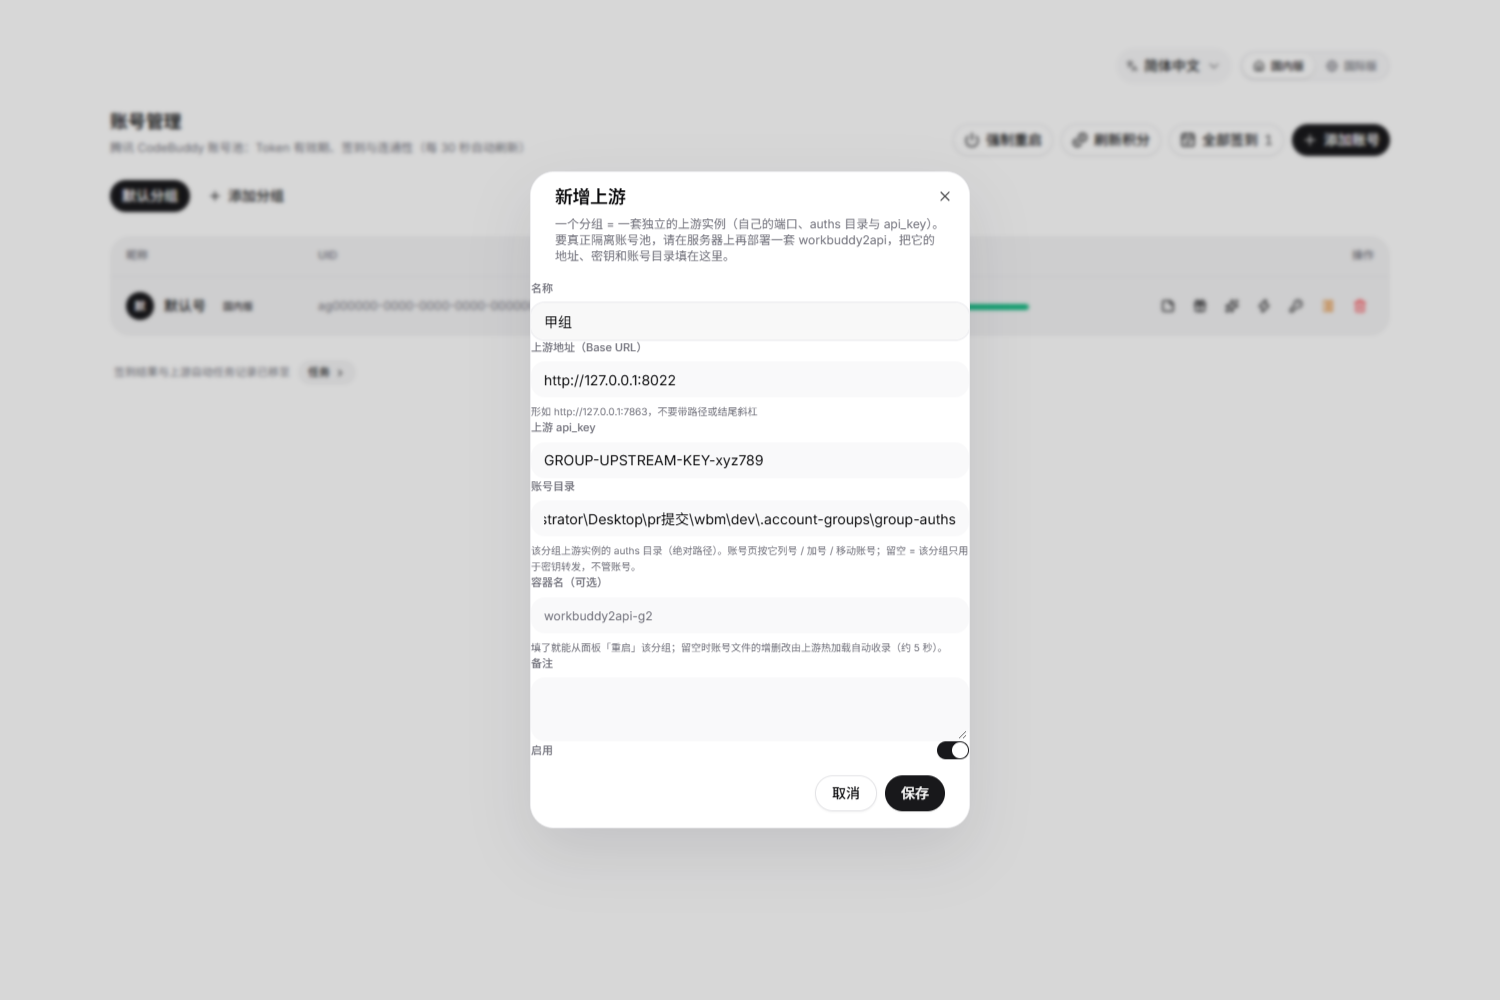
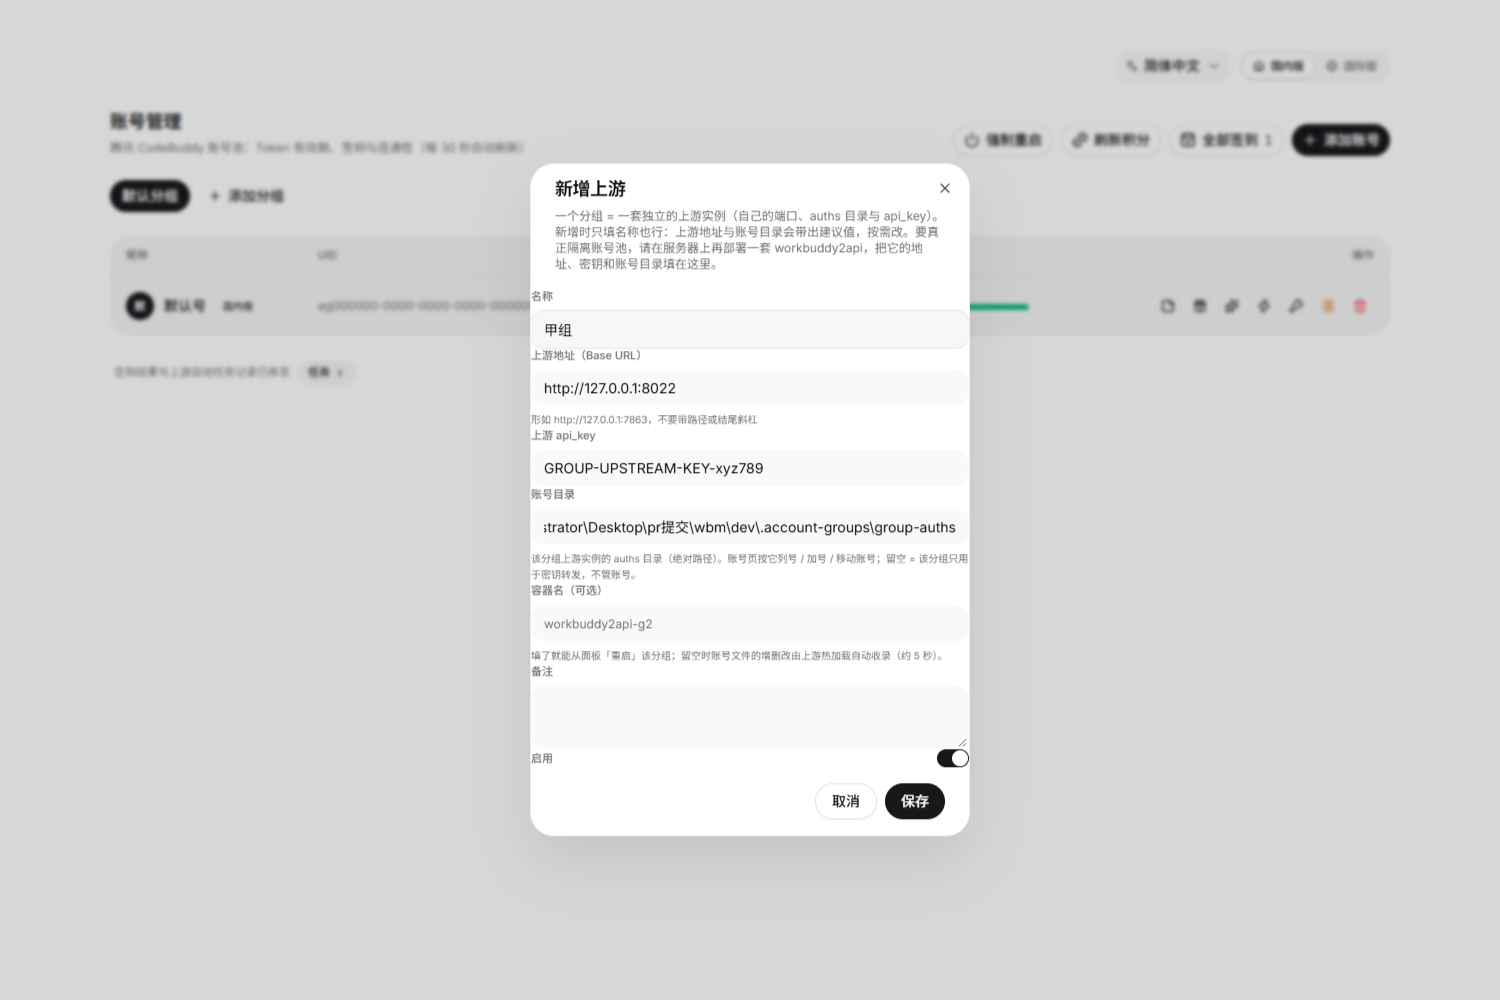
feat(accounts): 添加分组只填名称即可——地址/账号目录自动带出建议值 + 共用实例提示
用户反馈：「添加分组的时候，只需要填写分组名称就行，上游地址和默认分组一样
即可；2 分组没账号就不能移动账号进去」。对应两处调整：

- 新增分组：上游地址默认带出「默认分组」的地址；账号目录默认带出默认分组
  目录的同级建议路径（跟随名称刷新，手动改过就不再跟）。只填名称即可保存；
  编辑里没有账号目录的旧分组时同样带出建议值——保存后它就能作为移动目标。
- 地址与默认分组相同（共用同一套实例）时：表单里即时提示，账号页对该分组
  常驻说明「搬进来的账号不会被实际使用（显示「未加载」）」——避免「以为
  隔离了、其实没有」。没配账号目录的分组依旧收不了账号（移动目标不可选），
  这是保护而非限制：账号文件必须有地方放，面板不猜路径。

验收：dev/verify_account_groups_ui.py 扩到 **18 项全过**（新增：地址自动带出
默认分组的地址 / 账号目录自动带出建议路径 / 表单与账号页的「共用同一套实例」
提示），截图随提交更新；tsc / lint / 全量 1731 项与既有基线一致（仅剩 4 项
Windows 环境错误 + 1 项 Node 环境失败，未改动代码上同样出现）。

diff --git a/web/components/common/upstreams/UpstreamFormDialog.tsx b/web/components/common/upstreams/UpstreamFormDialog.tsx
@@ -8,6 +8,12 @@
  * 两份拷贝会漂移，而这里每个字段都直接影响路由行为（地址错了请求打错地方、
  * 目录错了账号管到别的组去）。
  *
+ * 新增时的**建议值**（用户反馈：不想手填一堆）：
+ *   · 上游地址默认带出「默认分组」的地址；
+ *   · 账号目录默认带出默认分组目录的同级路径（跟随名称变化，手动改过就不再跟）。
+ * 两者都只是**表单初值**，提交前始终由用户确认；地址若最终与默认分组相同，
+ * 表单里会明确提示「共用同一套实例、搬进来的账号不会被实际使用」。
+ *
  * 编辑时**不回填明文 api_key**（接口只回脱敏值，见 routers/upstreams.py）：
  * 留空 = 不修改。
  */
@@ -52,11 +58,31 @@ const emptyForm: FormState = {
   container: '',
 };
 
+/** 去掉末尾斜杠，便于比较两个地址是否同一套实例 */
+function trimUrl(url: string): string {
+  return url.trim().replace(/\/+$/, '');
+}
+
+/**
+ * 给分组建议一个账号目录：默认分组目录的同级、加名称后缀。
+ *
+ * 为什么要有建议值：「添加分组」的期望用法是**只填名称**——配套的账号目录
+ * 是这个功能的落点（移动账号往哪放），留空会让分组收不了账号。只做路径拼接，
+ * 不建目录（移动/加号时才会真的创建）。
+ */
+function suggestAuthDir(defaultDir: string, name: string): string {
+  const base = (defaultDir || '').replace(/[\\/]+$/, '');
+  if (!base) return '';
+  const slug = (name || '').trim().replace(/[\\/:*?"<>|\s]+/g, '').slice(0, 32);
+  return `${base}-${slug || 'new'}`;
+}
+
 export function UpstreamFormDialog({
   open,
   onOpenChange,
   editing,
   onSaved,
+  defaultUpstream,
 }: {
   open: boolean;
   onOpenChange: (v: boolean) => void;
@@ -64,28 +90,45 @@ export function UpstreamFormDialog({
   editing: UpstreamEndpoint | null;
   /** 保存成功后的回调（新建时拿到新行——账号页用它直接切到新分组） */
   onSaved?: (item: UpstreamEndpoint) => void;
+  /**
+   * 「默认分组」那一行：新建时用它的地址 / 账号目录给表单带出建议值。
+   * 只取两个字符串参与依赖，避免父组件每次刷新列表都把正在填的表单重置掉。
+   */
+  defaultUpstream?: UpstreamEndpoint | null;
 }) {
   const t = useT();
   const [form, setForm] = useState<FormState>(emptyForm);
   const [busy, setBusy] = useState(false);
+  /** 账号目录是否被手动改过：没改过时跟随名称刷新建议路径 */
+  const [dirTouched, setDirTouched] = useState(false);
 
-  // 打开时按 editing 重置：弹窗可能是「新建 → 取消 → 编辑」，不能残留上一次的内容
+  const defaultBaseUrl = defaultUpstream?.base_url || '';
+  const defaultDir = defaultUpstream?.auth_dir || '';
+
+  // 打开时按 editing / 默认分组重置。依赖只取字符串（见上面的注释）。
   useEffect(() => {
     if (!open) return;
-    setForm(
-      editing
-        ? {
-            name: editing.name,
-            base_url: editing.base_url,
-            api_key: '', // 不回填明文；留空 = 不修改
-            note: editing.note || '',
-            enabled: editing.enabled,
-            auth_dir: editing.auth_dir || '',
-            container: editing.container || '',
-          }
-        : emptyForm,
-    );
-  }, [open, editing]);
+    if (editing) {
+      setForm({
+        name: editing.name,
+        base_url: editing.base_url,
+        api_key: '', // 不回填明文；留空 = 不修改
+        note: editing.note || '',
+        enabled: editing.enabled,
+        // 还没配账号目录的分组：带出建议路径，用户直接保存即可开始用
+        auth_dir: editing.auth_dir || suggestAuthDir(defaultDir, editing.name),
+        container: editing.container || '',
+      });
+      setDirTouched(!!editing.auth_dir);
+    } else {
+      setForm({
+        ...emptyForm,
+        base_url: defaultBaseUrl,
+        auth_dir: suggestAuthDir(defaultDir, ''),
+      });
+      setDirTouched(false);
+    }
+  }, [open, editing, defaultBaseUrl, defaultDir]);
 
   async function submit() {
     if (busy) return;
@@ -109,6 +152,8 @@ export function UpstreamFormDialog({
     }
   }
 
+  const sameAsDefault = !!defaultBaseUrl && trimUrl(form.base_url) === trimUrl(defaultBaseUrl);
+
   return (
     <Dialog open={open} onOpenChange={onOpenChange}>
       <DialogContent className="max-w-[440px]" showCloseButton>
@@ -121,7 +166,15 @@ export function UpstreamFormDialog({
             <Label className="text-[11px] text-muted-foreground">{t('upstreams.fieldName')}</Label>
             <Input
               value={form.name}
-              onChange={(e) => setForm({...form, name: e.target.value})}
+              onChange={(e) => {
+                const name = e.target.value;
+                setForm((f) => ({
+                  ...f,
+                  name,
+                  // 名称变了、目录没被手动改过：建议路径跟着刷新
+                  auth_dir: dirTouched ? f.auth_dir : suggestAuthDir(defaultDir, name),
+                }));
+              }}
               placeholder={t('upstreams.fieldNamePlaceholder')}
               maxLength={64}
             />
@@ -137,6 +190,11 @@ export function UpstreamFormDialog({
             <p className="text-[10px] leading-4 text-muted-foreground">
               {t('upstreams.fieldUrlHint')}
             </p>
+            {sameAsDefault && (
+              <p className="text-[10px] leading-4 text-amber-600 dark:text-amber-400">
+                {t('upstreams.sharedUrlHint')}
+              </p>
+            )}
           </div>
           <div className="space-y-1.5">
             <Label className="text-[11px] text-muted-foreground">{t('upstreams.fieldKey')}</Label>
@@ -154,7 +212,10 @@ export function UpstreamFormDialog({
             <Label className="text-[11px] text-muted-foreground">{t('upstreams.fieldDir')}</Label>
             <Input
               value={form.auth_dir}
-              onChange={(e) => setForm({...form, auth_dir: e.target.value})}
+              onChange={(e) => {
+                setForm({...form, auth_dir: e.target.value});
+                setDirTouched(true);
+              }}
               placeholder={t('upstreams.fieldDirPlaceholder')}
               maxLength={500}
             />

diff --git a/web/app/(main)/accounts/page.tsx b/web/app/(main)/accounts/page.tsx
@@ -795,6 +795,21 @@ export default function AccountsPage() {
     );
   }
 
+  /**
+   * 当前分组是否与默认分组**共用同一套上游实例**（地址相同）。
+   *
+   * 这时搬进来的账号不会被任何实例加载（列表里显示「未加载」），密钥也仍然
+   * 打默认池——必须在页面上说明，否则就是「以为隔离了、其实没有」。
+   */
+  const sharedUrlGroup = (() => {
+    if (groupId == null) return null;
+    const active = groups.find((g) => g.id === groupId);
+    const dft = groups.find((g) => g.is_default);
+    if (!active || !dft || !active.base_url || !dft.base_url) return null;
+    const norm = (u: string) => u.trim().replace(/\/+$/, '');
+    return norm(active.base_url) === norm(dft.base_url) ? active : null;
+  })();
+
   return (
     <div className="flex flex-col gap-4 md:gap-6">
       <PageHeader
@@ -920,6 +935,11 @@ export default function AccountsPage() {
       {groupInfo && !groupInfo.manageable && groupId != null && (
         <p className="px-1 text-[11px] leading-4 text-muted-foreground">
           {t('accounts.groupNoDir', {name: groupInfo.name})}
+        </p>
+      )}
+      {sharedUrlGroup && (
+        <p className="px-1 text-[11px] leading-4 text-muted-foreground">
+          {t('accounts.groupSharedUrl', {name: sharedUrlGroup.name})}
         </p>
       )}
 
@@ -1074,6 +1094,7 @@ export default function AccountsPage() {
         open={groupDialogOpen}
         onOpenChange={setGroupDialogOpen}
         editing={null}
+        defaultUpstream={groups.find((g) => g.is_default) ?? null}
         onSaved={(item) => {
           if (item && item.id != null) setGroupId(item.id);
           void load();

diff --git a/web/components/settings/UpstreamEndpoints.tsx b/web/components/settings/UpstreamEndpoints.tsx
@@ -186,6 +186,7 @@ export function UpstreamEndpoints() {
         open={formOpen}
         onOpenChange={setFormOpen}
         editing={editing}
+        defaultUpstream={items.find((item) => item.is_default) ?? null}
         onSaved={() => void load()}
       />
     </section>

diff --git a/dev/verify_account_groups_ui.py b/dev/verify_account_groups_ui.py
@@ -151,6 +151,7 @@ def main() -> int:
             **os.environ,
             'WB_BASE': f'http://127.0.0.1:{MANAGER_PORT}',
             'WB_PASS': ADMIN_PW,
+            'WB_DEFAULT_URL': f'http://127.0.0.1:{DEFAULT_UP_PORT}',
             'WB_GROUP_URL': f'http://127.0.0.1:{GROUP_UP_PORT}',
             'WB_GROUP_KEY': GROUP_KEY,
             'WB_GROUP_DIR': str(group_auths),

diff --git a/README.md b/README.md
@@ -92,8 +92,10 @@
   活的，随时可以启用回来（上游版本较旧时会自动回退到「完全退出账号池」的方式，
   并在提示里说明差别）
 - **账号分组（多账号池）** —— 页面顶部按分组查看与切换账号：默认分组就是升级前那套；
-  点「添加分组」登记新的分组（每个分组 = 一套独立的上游实例，填它的地址、`api_key`
-  与**账号目录**——账号目录一致才能在面板里管理这一组的账号）。账号行有「移动到分组」，
+  点「添加分组」登记新的分组——**只填名称也行**（上游地址默认带出默认分组的地址，
+  账号目录默认带出建议路径）。每个分组 = 一套独立的上游实例，按需把地址、`api_key`
+  与**账号目录**改成那套实例的（账号目录一致才能在面板里管理这一组的账号；地址保持
+  与默认分组一致时页面上会说明「共用同一套实例、搬进来的账号不会被实际使用」）。账号行有「移动到分组」，
   把账号从默认分组转移进任意分组；移动的是账号文件本身，**凭证一个字节不改**，
   目标已有同名文件时会拒绝（覆盖会丢掉那一份凭据）。密钥绑定哪个分组，请求就只走
   哪一组的账号（见「反代网关 → 多上游」）。**没配置账号目录的分组只做密钥转发**：

diff --git a/CHANGELOG.md b/CHANGELOG.md
@@ -126,6 +126,12 @@
   与**账号目录**——账号目录填好之后，这一组的账号就能在面板里直接管理（查看 / 加号 /
   移动 / 删除 / 签到）。没填账号目录的分组只做密钥转发，账号页对它只读。
 
+  **添加分组只填名称也行**：上游地址默认带出默认分组的地址、账号目录默认带出建议
+  路径（同名同级），按需再改。若地址保持与默认分组一致，表单与账号页都会说明「这个
+  分组与默认分组共用同一套实例、搬进来的账号不会被实际使用」——避免「以为隔离了、
+  其实没有」。没配账号目录的分组收不了账号（移动时目标不可选），这是保护而不是限制：
+  账号文件必须有地方放，面板不猜路径。
+
   两个细节照旧「宁可报错也不静默」：分组没配账号目录时，添加 / 移动 / 删除会**明确
   报错**，绝不悄悄落到默认分组去（那等于把号加错了池，而且看不出来）；把账号移到目标
   分组时如果目标已有同名文件，直接拒绝而不是覆盖（覆盖会丢掉那一份凭据）。移动只搬
